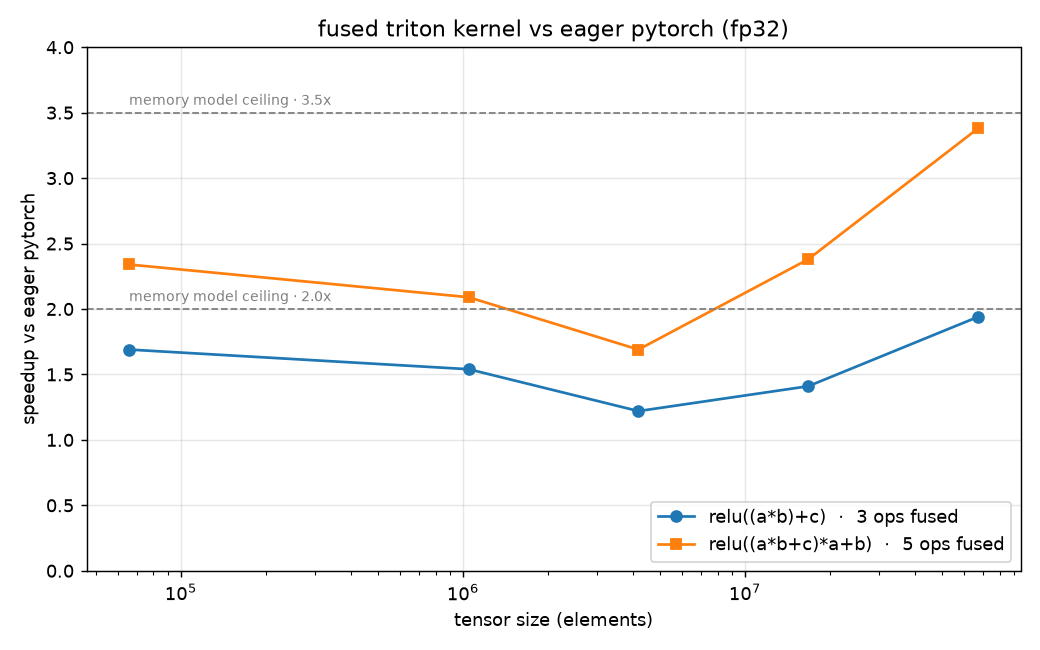
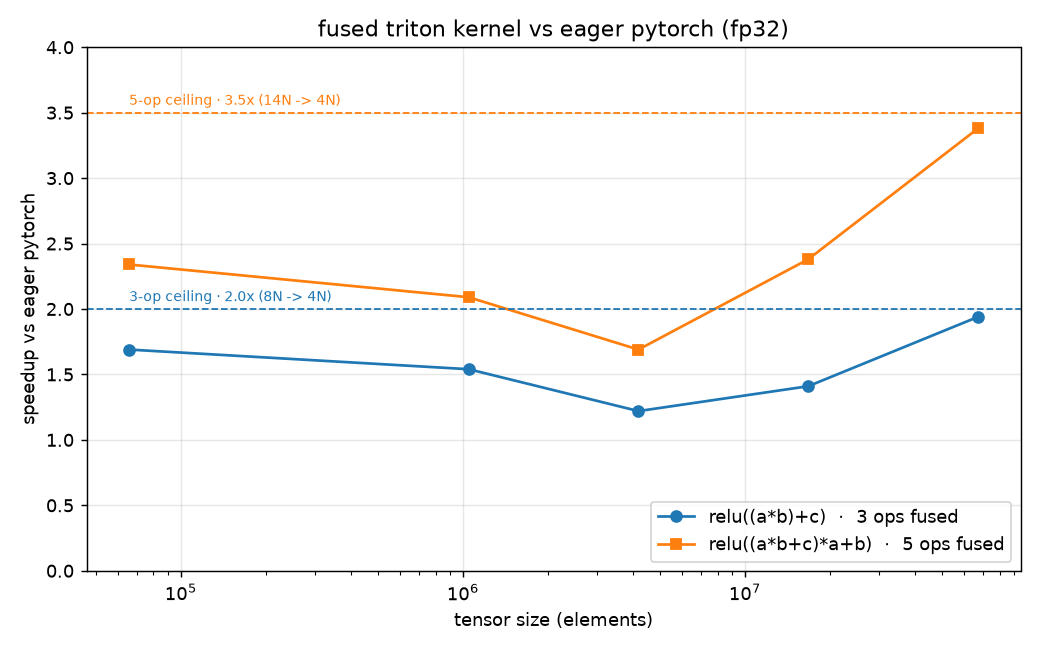
updated benchmark graph

Changed region(s): [[0.1231, 0.4308, 0.3385, 0.4923], [0.1231, 0.1231, 0.3385, 0.1846]]

diff --git a/scripts/plot_bench.py b/scripts/plot_bench.py
@@ -19,15 +19,16 @@ short = [1.69, 1.54, 1.22, 1.41, 1.94]   # relu((a*b)+c)       - memory model sa
 long_ = [2.34, 2.09, 1.69, 2.38, 3.38]   # relu((a*b+c)*a+b)   - memory model says 3.5x
 
 fig, ax = plt.subplots(figsize=(8, 5))
-ax.plot(N, short, "o-", label="relu((a*b)+c)  ·  3 ops fused")
-ax.plot(N, long_, "s-", label="relu((a*b+c)*a+b)  ·  5 ops fused")
+ax.plot(N, short, "o-", color="C0", label="relu((a*b)+c)  ·  3 ops fused")
+ax.plot(N, long_, "s-", color="C1", label="relu((a*b+c)*a+b)  ·  5 ops fused")
 
-# the analytical memory-traffic ceilings each curve should approach as it becomes
-# bandwidth-bound
-ax.axhline(2.0, ls="--", color="gray", lw=1)
-ax.axhline(3.5, ls="--", color="gray", lw=1)
-ax.text(N[0], 2.06, "memory model ceiling · 2.0x", fontsize=8, color="gray")
-ax.text(N[0], 3.56, "memory model ceiling · 3.5x", fontsize=8, color="gray")
+# each curve has its OWN memory-traffic ceiling (its eager/fused byte ratio) - the most
+# speedup possible from moving less memory. we colour each line to match its curve so
+# it's clear the 2.0x bound belongs to the 3-op expr and 3.5x to the 5-op expr.
+ax.axhline(2.0, ls="--", color="C0", lw=1)
+ax.axhline(3.5, ls="--", color="C1", lw=1)
+ax.text(N[0], 2.06, "3-op ceiling · 2.0x (8N -> 4N)", fontsize=8, color="C0")
+ax.text(N[0], 3.56, "5-op ceiling · 3.5x (14N -> 4N)", fontsize=8, color="C1")
 
 ax.set_xscale("log")
 ax.set_xlabel("tensor size (elements)")